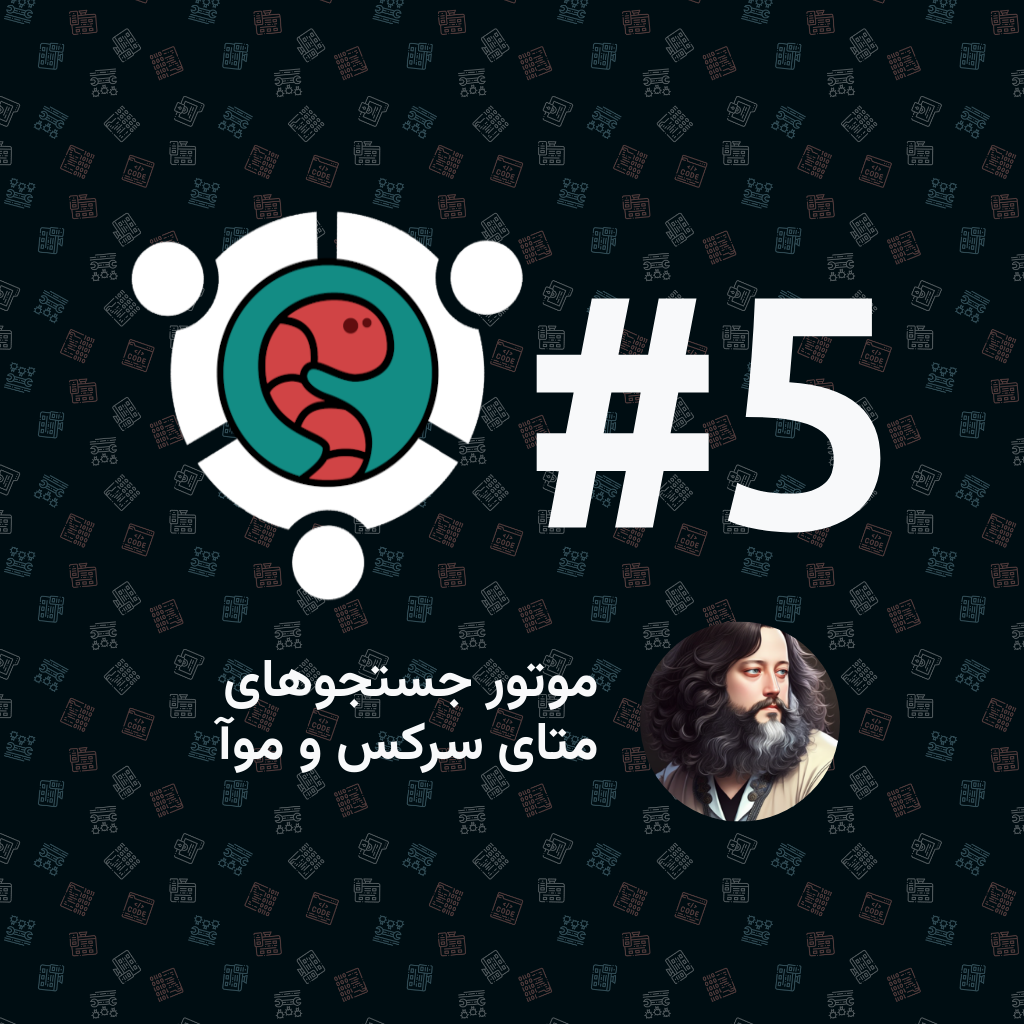
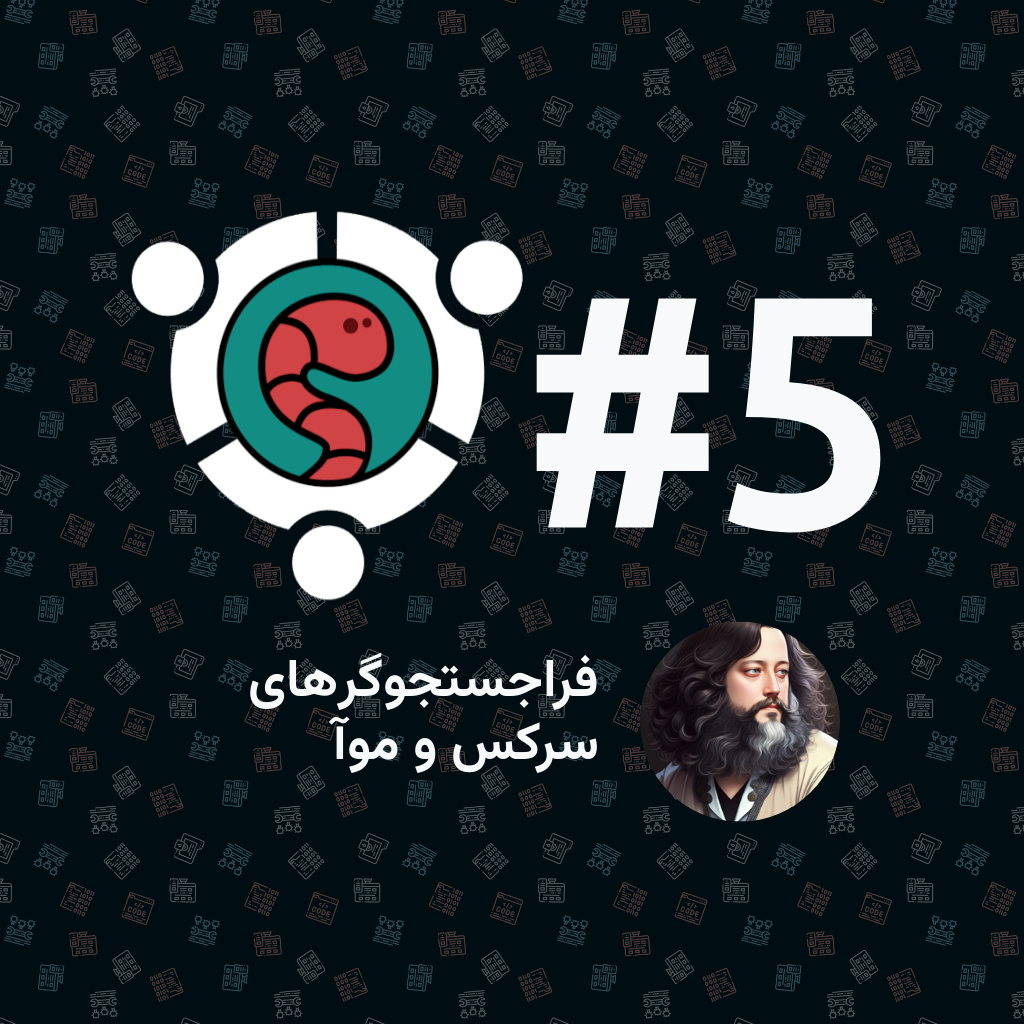
deploy: bc2f5eb36017f565a2095139551bfe440f44c430

Changed region(s): [[0.2188, 0.625, 0.5938, 0.75]]

diff --git a/index.html b/index.html
@@ -6,7 +6,7 @@
     <meta name="viewport" content="width=device-width, initial-scale=1.0">
     <meta property="og:title" content="#5 - دورهمی کرمهای کامپیوتر" />
     <meta name="og:description"
-        content="دورهمی های کرمهای کامپیوتر - جمعه هر هفته ساعت هفت این هفته با ارائه «جعفر فرقانلوژ» درباره موتور جستجوهای متای سرکس و موآ">
+        content="دورهمی های کرمهای کامپیوتر - جمعه هر هفته ساعت هفت این هفته با ارائه «جعفر فرقانلوژ» درباره فراجستجوگرهای سرکس و موآ">
     <meta property="og:url" content="https://meet.pcworms.ir" />
     <meta property="og:image" content="https://meet.pcworms.ir/preview.png" />
     <title>دورهمی های کرم های کامپیوتر</title>
@@ -101,9 +101,9 @@
                 <div class="col-auto float-start text-center"><img src="assets&#x2F;avatars&#x2F;mehr32.png" class="profile"></div>
                 <div class="col">
                     <small class="speaker d-block">
-                        این هفته با «جعفر فرقانلوژ» درباره:
+                        این هفته با «جعفر فرقانلوژ» درباره:
                     </small>
-                    <h2 class="subject">موتور جستجوهای متای سرکس و موآ</h2>
+                    <h2 class="subject">فراجستجوگرهای سرکس و موآ</h2>
                     <div class="text-center">
                         <small class="time" id="counter"></small>
                     </div>

diff --git a/preview.html b/preview.html
@@ -28,7 +28,7 @@
             <div class="col-12 col-sm-10 col-md-8 p-2"">
                 <div class=" row align-items-center">
                 <div class="col">
-                    <h1 class="subject" dir="rtl">موتور جستجوهای متای سرکس و موآ</h1>
+                    <h1 class="subject" dir="rtl">فراجستجوگرهای سرکس و موآ</h1>
                 </div>
                 <div class="col-auto float-start text-center"><img src="assets&#x2F;avatars&#x2F;mehr32.png" class="profile"></div>
             </div>
